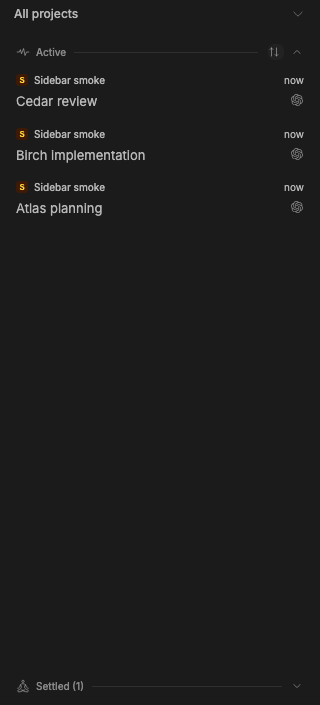
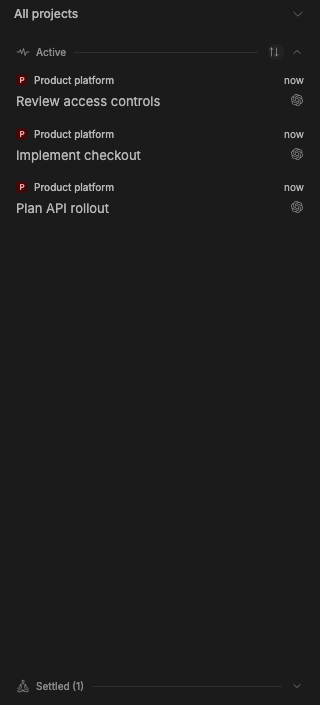
docs: show real BB workflows and restore the README template

Changed region(s): [[0.0312, 0.1872, 0.4375, 0.3121], [0.0625, 0.0936, 0.5, 0.156]]

diff --git a/README.md b/README.md
@@ -1,61 +1,144 @@
 # Thread Inbox
 
-[![CI](https://github.com/ysskrishna/bb-thread-inbox/actions/workflows/ci.yml/badge.svg?event=pull_request)](https://github.com/ysskrishna/bb-thread-inbox/actions/workflows/ci.yml) [![Version](https://img.shields.io/badge/version-0.1.0-blue)](CHANGELOG.md) [![License: MIT](https://img.shields.io/badge/License-MIT-blue)](LICENSE) [![Author site](https://img.shields.io/badge/author-ysskrishna.space-informational)](https://ysskrishna.space)
+[![CI](https://github.com/ysskrishna/bb-thread-inbox/actions/workflows/ci.yml/badge.svg)](https://github.com/ysskrishna/bb-thread-inbox/actions/workflows/ci.yml)
+[![GitHub release](https://img.shields.io/github/v/release/ysskrishna/bb-thread-inbox?label=release)](https://github.com/ysskrishna/bb-thread-inbox/releases)
+[![License: MIT](https://img.shields.io/badge/License-MIT-blue)](LICENSE)
+[![Author site](https://img.shields.io/badge/author-ysskrishna.space-informational)](https://ysskrishna.space)
 
 A community sidebar for [BB](https://getbb.app) that keeps ongoing work, returned results, and finished conversations easy to find.
 
-| Light | Dark |
-| --- | --- |
-| ![Thread sidebar in light mode](docs/screenshots/sidebar-light-320.png) | ![Thread actions in dark mode](docs/screenshots/actions-dark-320.png) |
+Working stays out of the way while agents run. Active brings back results and questions. Settle completed conversations, or snooze them until you are ready to return.
+
+![Settle a thread, restore it, snooze it, and wake it in Thread Inbox](docs/screenshots/thread-inbox-demo.gif)
+
+The GIF records actual interactions in BB 0.50.1 with disposable demo data: **Settle → Un-settle → Snooze → Wake → Search**. Sidebar images below are cropped browser screenshots. [Capture details](docs/screenshots/README.md).
 
 ## Features
 
-- **Working** holds continuing work, folded at the bottom by default.
-- **Active** shows results, errors, and questions, with recent returns first.
-- **Settled** keeps filed conversations accessible without filling the main list.
-- **Snooze / Wake** defer a thread until later without answering its question or stopping its runtime.
-- **Settle / Un-settle / Undo** file finished work and restore it when needed.
-- Automatic settling handles inactivity and merged or closed pull requests. Defaults are seven days, merged-PR settling on, and PR inactivity protection off.
-- Readable cards support keyboard actions, touch, narrow sidebars, and light/dark themes.
+| Section or action | What it does |
+| --- | --- |
+| **Working** | Collects continuing work in a collapsible section at the bottom. |
+| **Active** | Shows recent results, errors, and questions first. |
+| **Settled** | Holds filed conversations with Un-settle and Undo. |
+| **Snooze / Wake** | Defers a conversation until later or returns it immediately. |
+| **Automatic settling** | Files inactive threads and threads with merged or closed pull requests. |
 
-Search, project and thread creation, and notifications use BB's native features. Use **Cmd/Ctrl+K** to search, including settled conversations, and **Project picker > New project** to create a project.
+Filing never archives or deletes a conversation, stops a runtime, or closes a terminal. Running work reported by BB, unanswered questions, queues, pins, and live children protect threads from automatic settling. Reading alone does not settle a thread; new activity can return filed work.
 
-Filing never archives or deletes a conversation. Running work, unanswered questions, queues, pins, and live children protect threads from automatic settling. Reading alone does not settle a thread. Rule changes leave settled work filed; new activity can return it.
+Search, project and thread creation, notifications, and retries use BB's native controls. **Cmd/Ctrl+K** finds threads, including settled conversations. Use **Project picker > New project** to create a project.
 
 ## Installation
 
-Requires **BB 0.49.0 or newer**. The initial version is available on the review branch:
+Requires **BB 0.49.0 or newer**. The release badge above reflects published GitHub Releases. A development package version does not mean a release has been published.
+
+<details open>
+<summary><b>Install the development preview</b></summary>
 
 ```sh
-bb plugin install git:github.com/ysskrishna/bb-thread-inbox@feature/t3-clean-sidebar --yes
+bb plugin install git:github.com/ysskrishna/bb-thread-inbox@main
 bb settings ui set sidebar.threadListProvider bb-sidebar-clean/inbox
 ```
 
-Disable other sidebar plugins before trying this one so their background policies do not run alongside it. The internal identifier remains `bb-sidebar-clean` to preserve existing settings and filing data.
+Disable other sidebar plugins before trying this one so their background policies do not run alongside it. The internal ID remains `bb-sidebar-clean` to preserve existing settings and filing data. BB shows the source for confirmation before installing it.
 
-## Settings
+</details>
 
-Open **Settings > Thread Inbox** for Working and automatic settling preferences. **Keep threads with a PR** exempts known PR threads from inactivity; merge and close rules still apply. Unknown PR state keeps the thread in place. Rules run when the sidebar opens and every five minutes on the server.
+<details>
+<summary><b>Install a published release</b></summary>
 
-For missing desktop banners, check **Settings > Push notifications** in the main BB window. The desktop switch and device permission must both allow notifications. BB suppresses system alerts for a thread already focused on that client. On macOS, also check BB's notification and Focus settings. Test with BB open while viewing another thread or app; mobile delivery is independent.
+After the first release is published, select a tag from [Releases](https://github.com/ysskrishna/bb-thread-inbox/releases) and replace `vX.Y.Z` below with that exact tag:
+
+```sh
+bb plugin install git:github.com/ysskrishna/bb-thread-inbox@vX.Y.Z
+bb settings ui set sidebar.threadListProvider bb-sidebar-clean/inbox
+```
+
+Git installs can also track a compatible semver range. See [BB's distribution guide](https://github.com/get-bb/bb/blob/main/plugins/bb-guide/skills/bb-plugin-authoring/references/distribution.md#releasing-a-git-plugin-with-semver-tags).
+
+</details>
+
+## See it in action
+
+<details>
+<summary><b>Active threads in light and dark themes</b></summary>
+
+Returned work stays in Active. Working and Settled can stay folded at the bottom.
+
+![Active threads and a folded Settled section in light mode](docs/screenshots/sidebar-light-320.png)
+
+![The labeled Settle action on a dark thread card](docs/screenshots/actions-dark-320.png)
+
+</details>
+
+<details>
+<summary><b>Settle and restore conversations</b></summary>
+
+Use **Settle** to file a thread, **Undo** to reverse the last action, or expand Settled and choose **Un-settle**.
+
+![Filed conversations in the expanded Settled section](docs/screenshots/settled-threads.png)
+
+</details>
+
+<details>
+<summary><b>Snooze and wake a thread</b></summary>
+
+Choose a shortcut or a date and time. **Wake** returns a snoozed thread immediately.
+
+![Snooze shortcuts and the custom date and time option](docs/screenshots/snooze-options.png)
+
+![A deferred conversation in the expanded Snoozed section](docs/screenshots/snoozed-threads.png)
+
+</details>
+
+<details>
+<summary><b>Search includes settled work</b></summary>
+
+BB's native search opens a filed conversation directly.
+
+![BB's thread search finding a conversation still visible in Settled](docs/screenshots/native-search.png)
+
+</details>
+
+<details>
+<summary><b>Configure automatic settling</b></summary>
+
+Open **Settings > Thread Inbox**. Defaults are seven days of inactivity, merged-PR settling on, and PR inactivity protection off. **Keep threads with a PR** exempts known PR threads from inactivity; merge and close rules still apply. Unknown PR state keeps the thread in place. Rules run when the sidebar opens and every five minutes on the server.
+
+![Thread Inbox preferences for inactivity and pull-request settling](docs/screenshots/auto-settle-settings.png)
+
+</details>
 
 ## Development
+
+<details>
+<summary><b>Build, check, and capture the demo</b></summary>
 
 ```sh
 git clone https://github.com/ysskrishna/bb-thread-inbox.git
 cd bb-thread-inbox
-git switch feature/t3-clean-sidebar
 npm ci
 npm run check
 ```
 
-Run browser checks against an isolated scratch BB server:
+The [browser guide](e2e/README.md) covers the isolated scratch server, prerequisites, and reproducible screenshots/GIF. Public captures use disposable data. Working order uses observed run starts with activity fallbacks because BB exposes no sidebar submission timestamp.
 
-```sh
-env -i PATH="$PATH" HOME="$HOME" npm run e2e -- --grep 'core sidebar'
-```
+Tag-based releases follow [AGENTS.md](AGENTS.md#tag-based-releases). The workflow validates stable tags and manifest versions, runs checks, and publishes the matching changelog section. Branch pushes and PRs create no release.
 
-See [browser test setup](e2e/README.md) for Chromium, fixture-provider requirements, and isolation details. Browser fixtures contain disposable data. Working order uses observed run starts with activity fallbacks because BB exposes no sidebar submission timestamp.
+</details>
+
+<details>
+<summary><b>Desktop notifications</b></summary>
+
+Check **Settings > Push notifications** in the main BB window. The desktop switch and device permission must both allow notifications. BB suppresses system alerts for a thread already focused on that client. On macOS, also check BB's notification and Focus settings. Mobile delivery is independent.
+
+</details>
+
+## Project links
+
+- [Releases](https://github.com/ysskrishna/bb-thread-inbox/releases) and [issues](https://github.com/ysskrishna/bb-thread-inbox/issues)
+- [Security policy](SECURITY.md)
+- [Remaining scope review](docs/scope-review.md), with priorities and confidence scores
+- [BB Community submission plan](docs/marketplace.md). The plugin is not listed yet.
 
 ## Inspiration
 
@@ -63,29 +146,35 @@ Based on [BB Sidebar](https://github.com/yusuf8834/bb-sidebar), with inspiration
 
 ## Built and maintained by
 
+Thread Inbox is built and maintained by:
+
 | | Name | GitHub | Role |
 | --- | --- | --- | --- |
-| <img src="https://github.com/ysskrishna.png?size=120" width="60" height="60" alt="Y. Siva Sai Krishna"> | **Y. Siva Sai Krishna** | [@ysskrishna](https://github.com/ysskrishna) | Maintainer |
+| <img src="https://github.com/ysskrishna.png?size=120" width="60" height="60" alt="Y. Siva Sai Krishna"> | **Y. Siva Sai Krishna** | [@ysskrishna](https://github.com/ysskrishna) | Creator |
 
 ## Changelog
 
-See [CHANGELOG](CHANGELOG.md) for this project's release notes.
+See [CHANGELOG](CHANGELOG.md) for release history and unreleased changes.
 
 ## Support
 
-- Star the repository.
-- [Report an issue](https://github.com/ysskrishna/bb-thread-inbox/issues) or submit a pull request.
-- [Sponsor on GitHub](https://github.com/sponsors/ysskrishna) or [Patreon](https://patreon.com/ysskrishna).
+If you find this project helpful:
+
+- ⭐ Star the repository
+- 🐛 [Report issues](https://github.com/ysskrishna/bb-thread-inbox/issues)
+- 🔀 Submit pull requests
+- 💝 [Sponsor on GitHub](https://github.com/sponsors/ysskrishna)
 
 ## License
 
-[MIT](LICENSE).
+MIT © [Y. Siva Sai Krishna](https://github.com/ysskrishna) - see [LICENSE](LICENSE) for details.
 
 ---
 
 <p align="left">
-  <a href="https://github.com/ysskrishna">Author's GitHub</a> ·
-  <a href="https://linkedin.com/in/ysskrishna">Author's LinkedIn</a> ·
-  <a href="https://ysskrishna.space">Author's site</a> ·
-  <a href="https://github.com/ysskrishna/bb-thread-inbox/issues">Report issues</a>
+  <a href="https://github.com/ysskrishna">Author's GitHub</a> •
+  <a href="https://linkedin.com/in/ysskrishna">Author's LinkedIn</a> •
+  <a href="https://ysskrishna.space">Author's site</a> •
+  <a href="https://github.com/ysskrishna/bb-thread-inbox/releases">Releases</a> •
+  <a href="https://github.com/ysskrishna/bb-thread-inbox/issues">Report Issues</a>
 </p>

diff --git a/e2e/README.md b/e2e/README.md
@@ -170,3 +170,34 @@ Wake/Un-settle, persisted auto-settle preferences, native search of filed work,
 and touch actions without hover. It uses fresh preferences. Historical
 manual-reorder flows explicitly seed manual order and an expanded Working
 section, without changing the shipped defaults.
+
+## README media
+
+Capture the current interface with a disposable Product platform project and
+fixed workflow titles. It uses the same real BB server and assertions as the
+core flows, not mocked browser responses:
+
+```sh
+env -i PATH="$PATH" HOME="$HOME" npm run e2e -- --readme-demo --grep 'core sidebar|README demo'
+ffmpeg -y -ss 2 -i e2e-artifacts/demo/walkthrough.webm \
+  -vf 'fps=5,scale=900:-1:flags=lanczos,split[s0][s1];[s0]palettegen=max_colors=96[p];[s1][p]paletteuse=dither=bayer:bayer_scale=5:diff_mode=rectangle' \
+  -loop 0 docs/screenshots/thread-inbox-demo.gif
+ffmpeg -y -i docs/screenshots/sidebar-light-320.png \
+  -i docs/screenshots/actions-dark-320.png -i docs/screenshots/settled-threads.png \
+  -i docs/screenshots/snoozed-threads.png -filter_complex 'hstack=inputs=4' \
+  -frames:v 1 docs/screenshots/marketplace-overview.png
+```
+
+FFmpeg is only a documentation capture tool; it is not a plugin dependency.
+The GIF comes from the continuous Playwright video of Settle, Un-settle, Snooze,
+Wake, and Search, sampled at five frames per second. The example trims two seconds of initial
+loading; inspect each new recording and adjust that trim before
+committing. Raw video/frames stay in ignored `e2e-artifacts/demo/`; only the
+finished GIF and current PNGs are published.
+The marketplace composite joins four actual sidebar captures to meet the
+registry's minimum width without stretching the interface.
+
+The committed public media uses BB 0.50.1 to match the installed desktop. To
+recapture that version on macOS, add `--app-dir /Applications/bb.app/Contents/Resources/app.asar.unpacked/node_modules/bb-app`
+to the browser command. This stages the application under scratch; it does not
+control the running desktop. The default remains the pinned BB 0.49.0 for minimum-version checks.

diff --git a/docs/screenshots/README.md b/docs/screenshots/README.md
@@ -1,0 +1,31 @@
+# Screenshot and recording provenance
+
+These assets are browser captures of Thread Inbox running inside a real,
+disposable BB 0.50.1 instance on macOS. The plugin is the development code in this
+PR, version `0.1.0-dev.0`. Data is a seeded Product platform project and four
+fixed-title conversations. No real user conversations are published.
+
+- `thread-inbox-demo.gif`: continuous Playwright screen recording converted to
+  GIF at five frames per second, scaled to 900 px wide with initial loading trimmed. It shows the full browser viewport in dark mode,
+  including Settle, Un-settle, Snooze, Wake, and native search. It is not an
+  AI-generated animation or a reconstructed interface.
+- `sidebar-*`, `actions-*`, `settled-threads`, `snooze-options`, and
+  `snoozed-threads`: screenshots cropped to the actual plugin sidebar element.
+  They omit BB's surrounding navigation and thread pane. Sidebar widths are
+  280 or 320 px; they are not screenshots of the entire desktop application.
+- `native-search.png` and `auto-settle-settings.png`: full browser screenshots
+  of native search and the plugin's settings page.
+- `marketplace-overview.png`: a clearly separate composite joining four real
+  sidebar screenshots horizontally. It meets the registry's 1,200 px minimum
+  width without stretching them. It does not depict one application window.
+
+Fresh preferences, fixed browser dimensions, demo titles, light/dark themes,
+and reduced-motion settings make these reproducible. The live desktop can
+look different because of its width, theme, saved settings, and thread states.
+The settings capture shows PR inactivity protection enabled as part of its
+persistence check; the shipped default is disabled.
+
+Regenerate using the [browser media instructions](../../e2e/README.md#readme-media).
+Use a disposable copy of the installed app for desktop-version comparisons.
+Keep the pinned minimum-version browser tests and internal visual baselines
+separate from these public captures.
